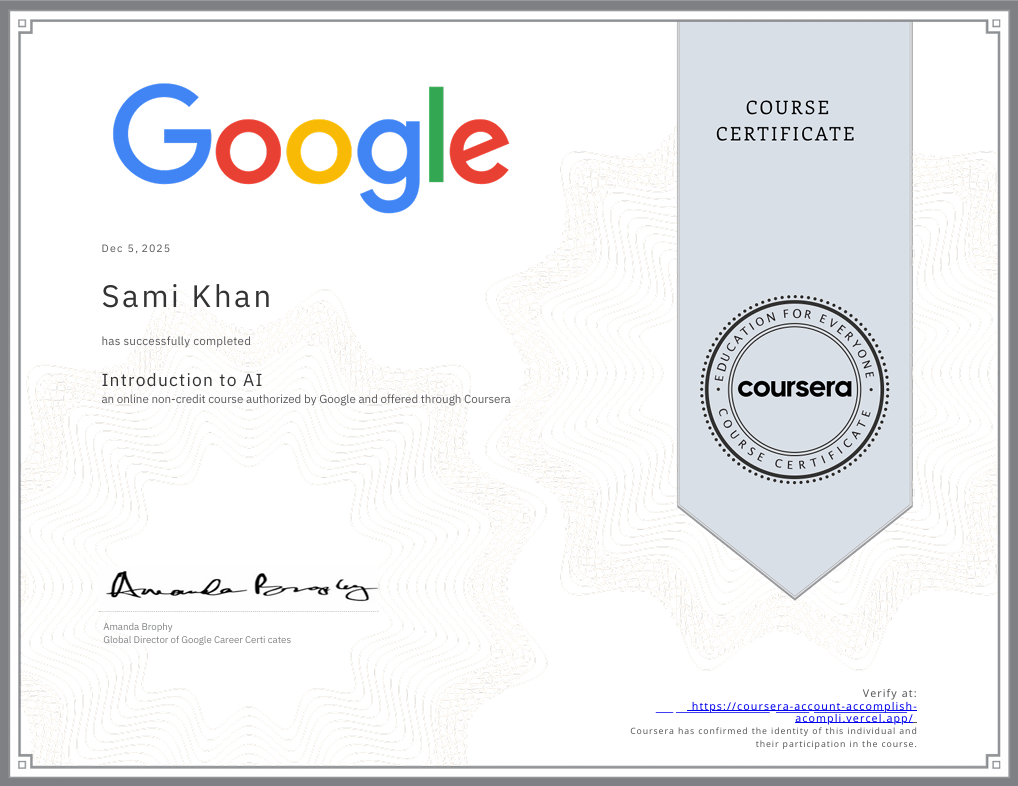
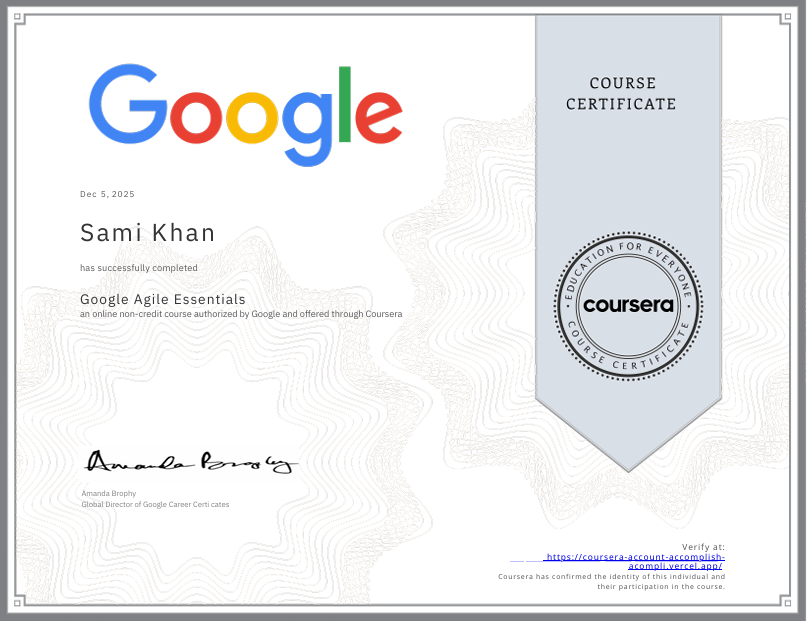
a

diff --git a/index.html b/index.html
@@ -198,7 +198,7 @@
             <a href="https://www.coursera.org/">Course Catalog</a>
         </div>
 
-        <h1>Introduction to AI</h1>
+        <h1>Google Agile Essentials</h1>
 
         <!-- Mobile-only certificate section, shown at top -->
         <div class="mobile-certificate-section">
@@ -219,8 +219,8 @@
                         <p><strong>6 hours (approximately)</strong></p>
                         <p style="margin-top: 10px; font-size: 12px;">Sami Khan account is verified. Coursera certifies
                             their successful completion of <a
-                                href="https://www.coursera.org/learn/introduction-to-ai"
-                                style="color: #0056D2;">Introduction to AI</a></p>
+                                href="https://www.coursera.org/learn/google-agile-essentials"
+                                style="color: #0056D2;">Google Agile Essentials</a></p>
                     </div>
                 </div>
 
@@ -239,8 +239,8 @@
                             </svg>
                             <div class="course-header-text">
                                 <div class="course-title">
-                                    <a href="https://www.coursera.org/learn/introduction-to-ai"
-                                        style="color: #1f1f1f; text-decoration: none;">Introduction to AI</a>
+                                    <a href="https://www.coursera.org/learn/google-agile-essentials"
+                                        style="color: #1f1f1f; text-decoration: none;">Google Agile Essentials</a>
                                 </div>
                                 <div class="course-provider">Google</div>
                                 <div class="rating">
